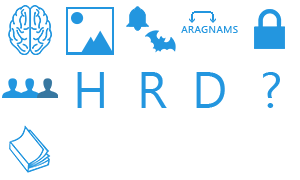
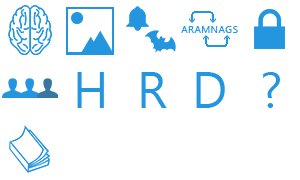
Allow the quiz type to be edited, defined on submission and allow edited quizzes to be without the 'extra' field.

Changed region(s): [[0.66, 0.1389, 0.78, 0.25], [0.69, 0.25, 0.75, 0.2778]]

diff --git a/static/scripts/quizzes.js b/static/scripts/quizzes.js
@@ -241,6 +241,25 @@ $(function()
 								holder: holder
 							});
 					}
+				},
+				{
+					type: click,
+					element: '.quiz-type-image',
+					func: function()
+					{
+						var quizType = $(this);
+						if (userIsAdmin() && quizType.parent().parent().parent().hasClass('editing'))
+						{
+							var currentType = parseInt(quizType.attr('currentType'));
+							quizType.removeClass('quiz-type-' + currentType);
+
+							currentType++;
+							if (currentType == quizTypeCount)
+								currentType = 0;
+
+							quizType.addClass('quiz-type-' + currentType).attr('currentType', currentType);
+						}
+					}
 				}
 			];
 
@@ -374,7 +393,8 @@ $(function()
 			{
 				title: form.find('#title').val().trim(),
 				charity: form.find('#charity').val().trim(),
-				closing: form.find('.dateSelector').getDateSelectorValue()
+				closing: form.find('.dateSelector').getDateSelectorValue(),
+				quizType: form.find('#quiz-type-field').val()
 			};
 
 			var isAnswer = typeof isAnswerPage !== "undefined";
@@ -447,7 +467,8 @@ $(function()
 				id: handler.getListingID(form.parent()),
 				title: form.find('.quiz-title-title input').val().trim(),
 				charity: form.find('.quiz-title-charity input').val().trim(),
-				closing: form.find('.quiz-closing').getDateSelectorValue()
+				closing: form.find('.quiz-closing').getDateSelectorValue(),
+				quizType: parseInt(form.find('.quiz-type-image').attr('currentType'))
 			};
 
 			if (listing.isAnswer())
@@ -651,6 +672,12 @@ $(function()
 
 			handler.applyQuizFlags(listing.removeClass('editing'));
 			listing.find('.quiz-vote').fadeIn();
+
+			var quizTypeField = listing.find('.quiz-type-image');
+			if (data != undefined)
+				quizTypeField.attr('baseType', data.quizType);
+
+			quizTypeField.removeClass('quiz-type-' + quizTypeField.attr('currentType')).addClass('quiz-type-' + quizTypeField.attr('baseType'));
 		},
 
 		getOffset: function(e)

diff --git a/static/css/quizzes.css b/static/css/quizzes.css
@@ -297,12 +297,12 @@
 
 .quiz-type-6
 {
-	background-position: -120px -60px;
+	background-position: -60px -60px;
 }
 
 .quiz-type-7
 {
-	background-position: -180px -60px;
+	background-position: -120px -60px;
 }
 
 .quiz-type-9
@@ -312,5 +312,5 @@
 
 .quiz-type-10
 {
-	background-position: -240px -60px;
+	background-position: -180px -60px;
 }

diff --git a/templates/quizzes.php b/templates/quizzes.php
@@ -1,3 +1,13 @@
+<script>
+	var quizTypeCount = <?php echo count(Quiz::$QUIZ_TYPES); ?>;
+	var quizTypes = [<?php
+		$types = Array();
+		foreach (Quiz::$QUIZ_TYPES as $type)
+			$types[] = '"' . $type . '"';
+
+		echo implode(', ', $types);
+ 	?>];
+</script>
 <div class="module module-padded">
 	<p><b>Voting:</b> You can vote for three quizzes a week, the quiz with the highest vote at the end of each week becomes Quiz of the Week.</p>
 	<p><b>Bookmarking:</b> Quizzes you bookmark will show up at the top of the list for you regardless of their closing date.</p>
@@ -12,6 +22,19 @@
 			<select range="year-year+5" type="year"></select>
 		</p>
 		<div class="quiz-extra visible">
+			<p class="quiz-type-input">
+				<select id="quiz-type-field">
+					<option value="-1" noselect="true" selected>Select a quiz type...</option>
+					<?php
+						$index = 0;
+						foreach (Quiz::$QUIZ_TYPES as $type)
+						{
+							echo '<option value="' . $index . '">' . $type . '</option>';
+							$index++;
+						}
+					?>
+				</select>
+			</p>
 			<p class="quiz-description"><input type="text" id="description" require="true" placeholder="Description..."/></p>
 			<p class="quiz-description-extra"><input type="text" id="extra" placeholder="(Optional) Extra Information... "/></p>
 		</div>
@@ -48,7 +71,7 @@
 			<div class="module module-padded quiz-listing<?php echo implode($classes); ?>" id="quiz-<?php echo $quiz->getId(); ?>">
 				<form class="validatable preventDefault" complete="quizEditSuccess" error="quizEditError" submit="quizEditSubmit">
 					<div class="quiz-arrow"></div>
-					<div class="quiz-type"><div class="quiz-type-image quiz-type-<?php echo $quiz->getQuizType(); ?>" title="<?php echo $quiz->getQuizTypeName(); ?>"></div></div>
+					<div class="quiz-type"><div class="quiz-type-image quiz-type-<?php echo $quiz->getQuizType(); ?>" title="<?php echo $quiz->getQuizTypeName(); ?>" currentType="<?php echo $quiz->getQuizType(); ?>" baseType="<?php echo $quiz->getQuizType(); ?>"></div></div>
 					<p class="quiz-title"><span class="quiz-title-title"><?php echo $quiz->getTitle(); ?></span> in aid of <span class="quiz-title-charity"><?php echo $quiz->getCharity(); ?></span></p>
 					<p class="dateSelector quiz-closing" validate=">" date="<?php echo $quiz->getClosingDate(); ?>" timestamp="<?php echo $quiz->getClosing(); ?>">Closes in <span class="time-period"><?php echo $quiz->getClosing(); ?></span> (<span class="time-formal"><?php echo $quiz->getClosing(); ?></span>)</p>
 					<div class="quiz-extra">

diff --git a/engine/objects/Quiz.php b/engine/objects/Quiz.php
@@ -219,6 +219,14 @@
 		}
 
 		/**
+		 * @param int $quiz_type
+		 */
+		public function setQuizType($quiz_type)
+		{
+			$this->quiz_type = $quiz_type;
+		}
+
+		/**
 		 * Delete the current quiz from the database.
 		 * @param boolean $restore If true, this will reverse a delete.
 		 */
@@ -255,8 +263,8 @@
 			$query = null;
 			if ($this->id == Quiz::NONE)
 			{
-				$query = DB::get()->prepare('INSERT INTO quizzes (title, charity, description, description_extra, closing, submitted_by, new_flag, accepted)
-					VALUES(:title, :charity, :description, :extra, :closing, :submitter, :new, :accepted)');
+				$query = DB::get()->prepare('INSERT INTO quizzes (title, quizType, charity, description, description_extra, closing, submitted_by, new_flag, accepted)
+					VALUES(:title, :type, :charity, :description, :extra, :closing, :submitter, :new, :accepted)');
 
 				$query->setValue(':new', QUIZ::DEFAULT_NEW_FLAG);
 			}
@@ -264,6 +272,7 @@
 			{
 				$query = DB::get()->prepare('UPDATE quizzes SET
 					title = :title,
+					quizType = :type,
 					charity = :charity,
 					description = :description,
 					description_extra = :extra,
@@ -283,6 +292,7 @@
 			$query->setValue(':closing', $this->getClosingDate());
 			$query->setValue(':submitter', $this->submitted_by);
 			$query->setValue(':accepted', $this->accepted ? 1 : 0);
+			$query->setValue(':type', $this->getQuizType());
 
 			$query->execute();
 		}

diff --git a/engine/listeners/AddQuizListener.php b/engine/listeners/AddQuizListener.php
@@ -13,14 +13,13 @@
 			$description = REST::Get('description');
 			$extra = REST::Get('extra');
 			$closing = REST::Get('closing');
+			$quizType = intval(REST::Get('quizType'));
 
-			// ToDo: Get the quiz ID and use that when adding the quiz.
-
-			if (REST::Check($title, $charity, $description, $closing))
+			if (REST::Check($title, $charity, $description, $closing) && isset(Quiz::$QUIZ_TYPES[$quizType]))
 			{
 				$closing = strtotime($closing);
 				$user_id = Authenticator::getLoggedInUser()->getId();
-				$quiz = new Quiz($title, $charity, $description, $extra == null ? '' : $extra, $closing, $user_id, 0, Authenticator::isLoggedInAsAdmin(), 0);
+				$quiz = new Quiz($title, $charity, $description, $extra == null ? '' : $extra, $closing, $user_id, $quizType, Authenticator::isLoggedInAsAdmin(), 0);
 				$quiz->persist();
 				$this->setReturn('success', true);
 			}

diff --git a/engine/listeners/EditQuizListener.php b/engine/listeners/EditQuizListener.php
@@ -12,15 +12,20 @@
 			$description = REST::Get('description');
 			$extra = REST::Get('extra');
 			$closing = REST::Get('closing');
+			$quizType = REST::Get('quizType');
 
 			$quiz = Quiz::get((int) REST::Get('id'));
-			if ($quiz instanceof Quiz && REST::Check($title, $charity, $description, $extra, $closing))
+			if ($quiz instanceof Quiz && REST::Check($title, $charity, $description, $closing))
 			{
 				$quiz->setTitle($title);
 				$quiz->setCharity($charity);
 				$quiz->setDescription($description);
-				$quiz->setExtra($extra);
+
+				if ($extra !== NULL)
+					$quiz->setExtra($extra);
+
 				$quiz->setClosing($closing);
+				$quiz->setQuizType($quizType);
 				$quiz->persist();
 				$this->setReturn('success', true);
 			}
